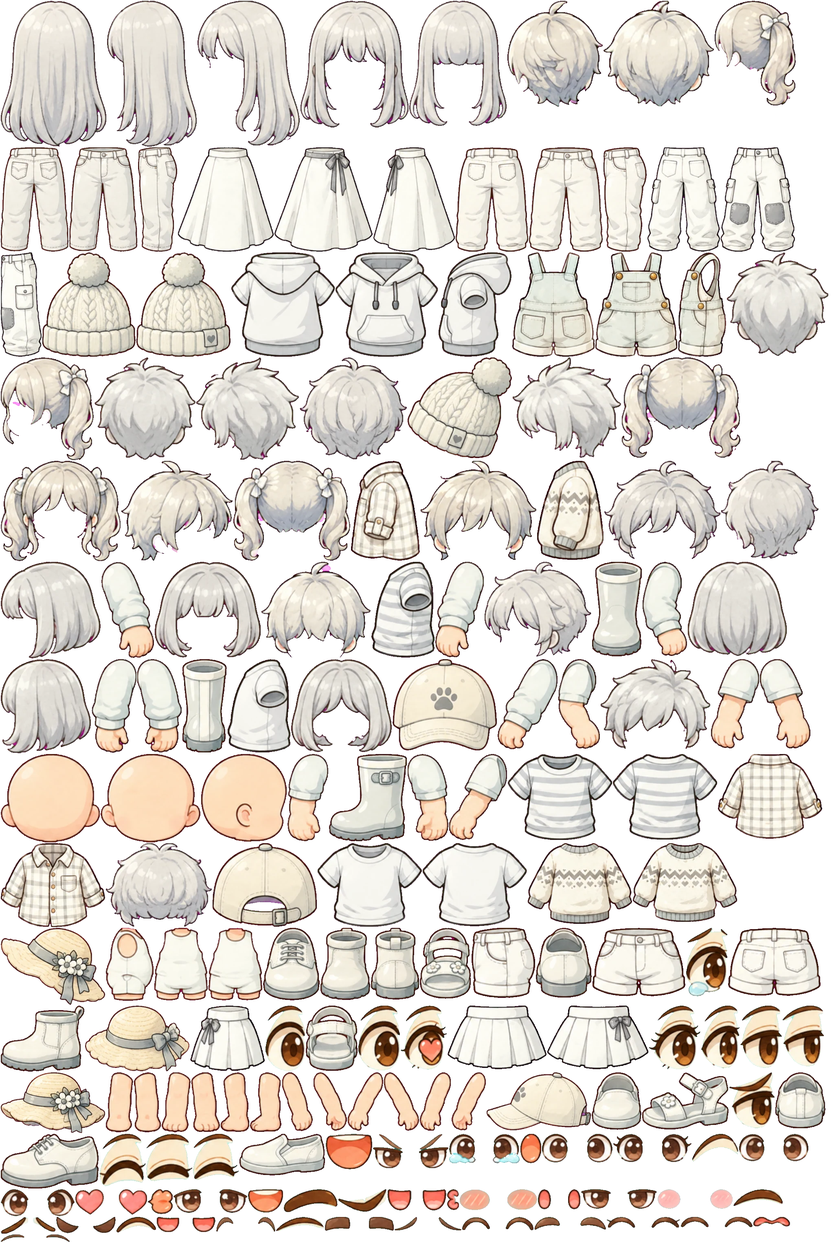
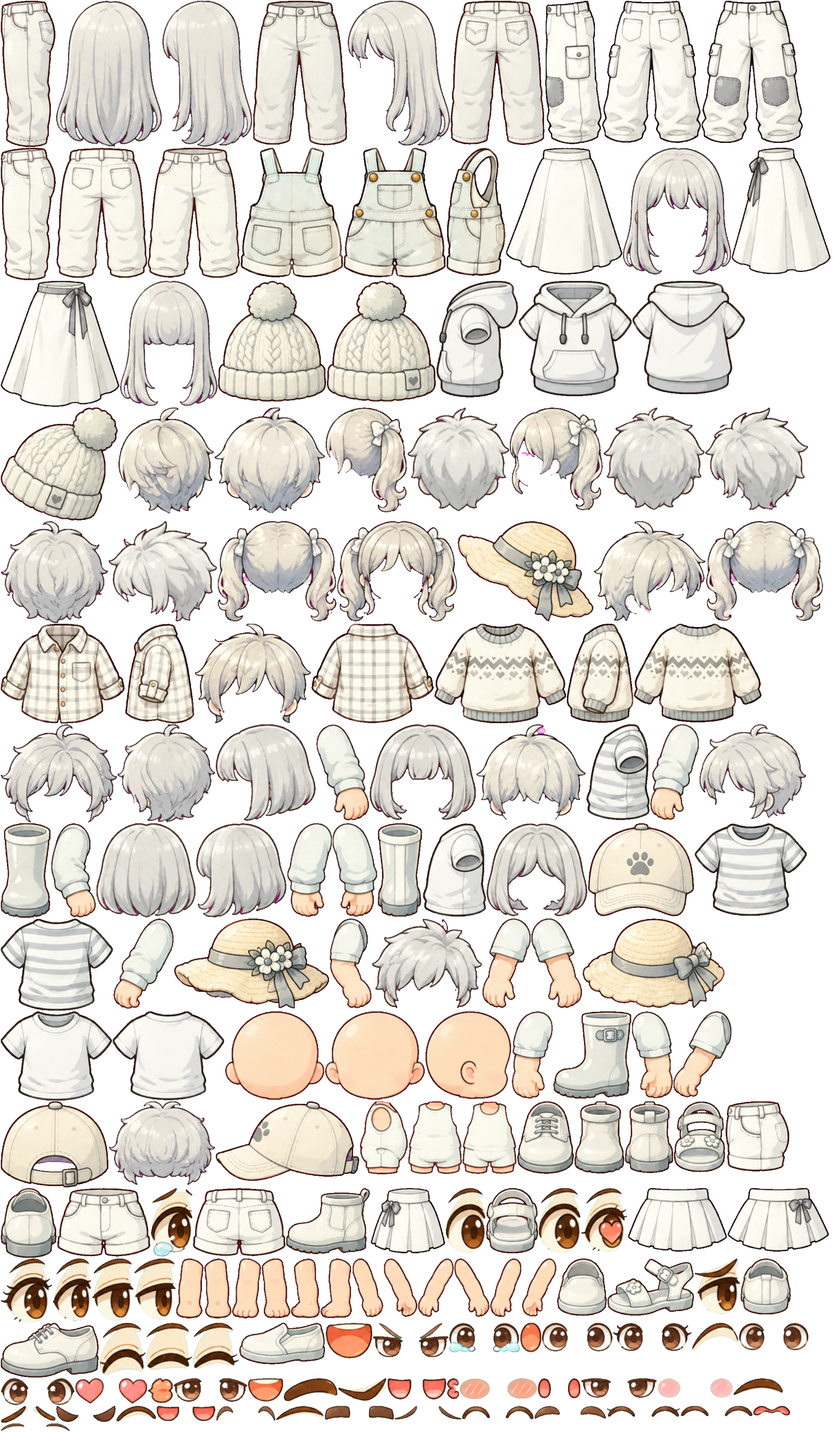
晴耕谷：人物重新設計——衣服跟身體同比例、手臂在袖子裡、側面零件方向修正
- 衣服圖不再各自縮小，跟素體用同一個比例對齊脖子與腰
- 手臂畫在衣服後面，舉手或拿工具時才到前面
- 側面的頭髮、衣服、鞋、帽子、配件左右翻轉成面向右
- 帽子各自的高度、居民改用美術眼鏡與圍巾
- 修正背面看不到背包的問題

Claude-Session: https://claude.ai/code/session_01S45UbmkRmwDS2Z4tiYZZKx

diff --git a/public/games/farm/render/doll.js b/public/games/farm/render/doll.js
@@ -69,10 +69,16 @@ export function drawDoll(g, look, parts, x, y, U, dir = 'down', action = 'idle',
     if (maxH && h > maxH) h = maxH;                                   // 長褲：不要蓋過鞋子（只壓高度）
     if (fitBox && h > fitBox) { w *= fitBox / h; h = fitBox; }        // 很高的頭飾：整個等比例縮小
     const flip = side && fit.flipSide; if (flip) { g.save(); g.scale(-1, 1); } // 有些零件的側面圖畫反了（面向左），翻過來
-    g.drawImage(color ? tintSprite(s.img, s.x, s.y, s.w, s.h, color) : s.img, ...(color ? [] : [s.x, s.y, s.w, s.h]), -w / 2, baseY + (side && fit.dys != null ? fit.dys : fit.dy) * U, w, h);
+    dS(s, color, -w / 2, baseY + (side && fit.dys != null ? fit.dys : fit.dy) * U, w, h);
     if (flip) g.restore(); return true;
   };
   const topArt = !!sprite(`top/${top.id}/${view}`);
+  // 美術的側面零件（頭髮、衣服、鞋、帽子、配件）大多畫成面向左，素體是面向右：側面時把這些零件左右翻過來
+  const dI = (src, sx, sy, sw, sh, dx, dy, dw, dh) => {
+    if (!side) { if (sx == null) g.drawImage(src, dx, dy, dw, dh); else g.drawImage(src, sx, sy, sw, sh, dx, dy, dw, dh); return; }
+    g.save(); g.translate(dx + dw / 2, 0); g.scale(-1, 1); if (sx == null) g.drawImage(src, -dw / 2, dy, dw, dh); else g.drawImage(src, sx, sy, sw, sh, -dw / 2, dy, dw, dh); g.restore();
+  };
+  const dS = (s, color, dx, dy, dw, dh) => (color ? dI(tintSprite(s.img, s.x, s.y, s.w, s.h, color), null, null, null, null, dx, dy, dw, dh) : dI(s.img, s.x, s.y, s.w, s.h, dx, dy, dw, dh));
   // ---- 美術素體（頭、臉、身體、手腳）：素材到了就用，沒有就用下面程式畫的 ----
   const BASE = !!sprite('base/head/front') && !look.plain, k0 = U / HEAD_PX, mirror = dir === 'left';
   const put = (name, cx, top, opt = {}) => { // 畫一張零件：以 (cx, top) 為上緣中心；可以指定寬高、旋轉（繞上緣中心）、換色
@@ -102,11 +108,29 @@ export function drawDoll(g, look, parts, x, y, U, dir = 'down', action = 'idle',
     const ss = sprite(`shoes/${look.shoes}/${view}`);
     if (ss) { // 美術鞋子：每隻腳一隻，鞋底貼著腳底；長靴比較高
       const sw = (side ? 0.4 : 0.3) * U, sh2 = Math.min(sw * ss.h / ss.w, (tall ? 0.42 : 0.24) * U), sw2 = sh2 * ss.w / ss.h;
-      g.save(); g.translate(side ? 0 : sx * 0.14 * U, by - 0.02 * U); g.rotate(side ? ang : 0); g.drawImage(paint(ss, skin, sc), -sw2 / 2 + (side ? 0.04 * U : 0), L - sh2 + 0.02 * U, sw2, sh2); g.restore();
+      g.save(); g.translate(side ? 0 : sx * 0.14 * U, by - 0.02 * U); g.rotate(side ? ang : 0); dI(paint(ss, skin, sc), null, null, null, null, -sw2 / 2 + (side ? 0.04 * U : 0), L - sh2 + 0.02 * U, sw2, sh2); g.restore();
       return true;
     }
     g.save(); g.translate(side ? 0 : sx * 0.14 * U, by - 0.02 * U); g.rotate(side ? ang : 0); rr(-0.13 * U, L - (tall ? 0.24 : 0.13) * U, 0.26 * U + (side ? 0.06 * U : 0), (tall ? 0.24 : 0.13) * U, 0.06 * U); fill(look.shoes === 'sandal' ? shade(sc, -0.2) : sc); g.restore();
     return true;
+  };
+  // 美術衣服：跟素體用同一個比例（parts.fit），上衣從脖子下面對齊、褲裙從腰對齊，所以會剛好套在身上
+  const FT = parts.fit || {}, torsoTop = hy + 0.42 * U;
+  const wear = (name, color, k, topY, dx = 0, maxH = 0) => {
+    const s = sprite(`${name}/${view}`); if (!s) return false;
+    let w = s.w * k0 * k, h = s.h * k0 * k; if (maxH && h > maxH) { w *= maxH / h; h = maxH; }
+    dS(s, color, dx - w / 2, topY, w, h); return true;
+  };
+  const topWear = () => { const f = FT.top || { k: 1, y: 0 }; return wear(`top/${top.id}`, look.topColor, f.k, torsoTop + f.y * U, side ? (f.sx || 0) * U : 0); };
+  const bottomWear = () => {
+    if (top.dress) return true; const f = FT.bottom || { k: 1, y: -0.2 }, b = parts.bottom.find((v) => v.id === look.bottom) || {};
+    return wear(`bottom/${look.bottom}`, look.bottomColor, f.k, by + f.y * U, side ? (f.sx || 0) * U : 0, -by - (f.y * U) - 0.06 * U);
+  };
+  const hatWear = () => {
+    if (look.hat === 'none') return true; const f = FT.hat || { k: 1 }, s = sprite(`hat/${look.hat}/${view}`), hp = parts.hat.find((v) => v.id === look.hat) || {}; if (!s) return false;
+    const w = s.w * k0 * f.k, h = s.h * k0 * f.k, dy = hp.dy != null ? hp.dy : (FT.hatY && FT.hatY[look.hat] != null ? FT.hatY[look.hat] : -0.38);
+    const col = look.hat === 'straw' || hp.art ? null : look.hatColor;
+    dS(s, col, -w / 2 + (side ? 0.02 * U : 0), hy + dy * U - h / 2, w, h); return true;
   };
   const bodyArt = () => { const s = sprite(`base/torso/${view}`); if (!s) return false; const h = by + 0.12 * U - (hy + 0.42 * U); put(`base/torso/${view}`, side ? -0.02 * U : 0, hy + 0.42 * U, { w: h * s.w / s.h, h }); return true; };
   const headArt = () => put(`base/head/${view}`, side ? -0.03 * U : 0, hy - 0.52 * U, { h: 1.04 * U, w: 1.04 * U * sprite(`base/head/${view}`).w / sprite(`base/head/${view}`).h });
@@ -122,7 +146,7 @@ export function drawDoll(g, look, parts, x, y, U, dir = 'down', action = 'idle',
   const hairArt = (v) => {
     const s = sprite(`hair/${look.hair}/${v}`); if (!s) return false;
     const w = s.w / HAIR.px * U, h = s.h / HAIR.px * U;
-    g.drawImage(tintSprite(s.img, s.x, s.y, s.w, s.h, look.hairColor), -w / 2 + (side ? (sprite('base/head/front') && !look.plain ? HAIR.sxArt : HAIR.sx) : 0) * U, hy + HAIR.top * U, w, h); return true;
+    dS(s, look.hairColor, -w / 2 + (side ? (sprite('base/head/front') && !look.plain ? HAIR.sxArt : HAIR.sx) : 0) * U, hy + HAIR.top * U, w, h); return true;
   };
   // ---- 各個零件 ----
   const hairBack = () => {
@@ -225,7 +249,7 @@ export function drawDoll(g, look, parts, x, y, U, dir = 'down', action = 'idle',
     if (!sl.behind && back && ['face', 'cheek', 'bow', 'tie', 'necklace', 'badge', 'apron'].includes(a.slot)) return true; // 背面看不到臉上和胸前的東西
     const base = sl.y === 'hy' ? hy : sl.y === 'by' ? by : sh, w = a.w * (side ? sl.sw || 0.7 : 1) * U, h = w * s.h / s.w;
     const cx = (side ? sl.sx || 0 : sl.dx || 0) * U, cy = base + (sl.dy || 0) * U;
-    g.drawImage(s.img, s.x, s.y, s.w, s.h, cx - w / 2, cy - h / 2, w, h); return true;
+    dI(s.img, s.x, s.y, s.w, s.h, cx - w / 2, cy - h / 2, w, h); return true;
   };
   const acc = () => {
     if (accArt('front')) return;
@@ -235,11 +259,13 @@ export function drawDoll(g, look, parts, x, y, U, dir = 'down', action = 'idle',
   // ---- 照圖層順序畫 ----
   if (BASE) { // 美術素體
     accArt('behind'); hairBack();
-    if (side) armArt(false); else if (back) { armArt(true); armArt(false); }
+    const dressed = topArt; // 上衣有美術圖：手臂畫在衣服後面，袖子蓋住手臂、只露出手
+    if (side) armArt(false); else if (back || dressed) { armArt(true); armArt(false); }
     if (side) { legArt(-1, p.legB); legArt(1, p.legA); } else { legArt(-1, p.legA); legArt(1, p.legB); }
-    bodyArt(); bottom(); topL();
-    if (!back) { if (!side) armArt(false); armArt(true); }
-    headArt(); faceArt(); hairFront(); hat(); acc(); if (back) { const a = parts.acc.find((v) => v.id === look.acc); if (a && a.art && (parts.slots[a.slot] || {}).behind) { const s = sprite(`acc/${a.id}/front`); if (s) { const sl = parts.slots[a.slot], w = a.w * U, h = w * s.h / s.w; g.drawImage(s.img, s.x, s.y, s.w, s.h, -w / 2, sh + sl.dy * U - h / 2, w, h); } } }
+    bodyArt(); if (!bottomWear()) bottom(); if (side && dressed) armArt(true); if (!topWear()) topL();
+    if (!back && !dressed) { if (!side) armArt(false); armArt(true); }
+    if (!back && dressed && (p.tool || action === 'happy' || action === 'eat')) armArt(true); // 舉手、拿工具的時候前面那隻手要在衣服前面
+    headArt(); faceArt(); hairFront(); if (!hatWear()) hat(); acc(); if (back) { const a = parts.acc.find((v) => v.id === look.acc); if (a && a.art && (parts.slots[a.slot] || {}).behind) { const s = sprite(`acc/${a.id}/front`); if (s) { const sl = parts.slots[a.slot], w = a.w * U, h = w * s.h / s.w; g.drawImage(s.img, s.x, s.y, s.w, s.h, -w / 2, sh + sl.dy * U - h / 2, w, h); } } }
   } else {
   hairBack();
   if (side) arm(false); else if (back) { arm(true); arm(false); }

diff --git a/docs/farm-game/進度.md b/docs/farm-game/進度.md
@@ -610,3 +610,15 @@ prompt 集階段 7 列的項目裡，**還沒做**的
 - 目前：**海伯**下午到海邊碼頭尾端釣魚、**汐音**上午到森林小溪邊釣魚、**青嵐**早上在森林裡走動（採藥）。玩家在那張地圖遇到就可以跟他說話、送禮（伺服器也照同一套判斷他在哪張地圖）。
 - 找路的地圖格子改成照「最上面那層地面」算，所以碼頭、木橋這種鋪在水上的路走得過去。
 - 測試：伺服器 164 項、雙人瀏覽器驗收 79 項；24 位居民一整天在三張地圖上的位置都沒有站在建築或水裡；截圖確認海伯在碼頭、汐音在溪邊。
+
+## 補充：人物重新設計（2026-11-13）
+
+使用者回饋：人物長得很奇怪、側面頭髮完全相反。找到三個原因並修正：
+
+1. **衣服的比例跟身體不一致**：素材工具會把每張衣服圖各自縮小到同一個上限，所以每件衣服大小不一，套在身上時有的太小、露出底下的白色內衣，有的浮在外面。改成衣服圖不縮小（素材工具的圖集寬度上限改成 4096），畫的時候跟素體用同一個比例，上衣從脖子下面對齊、褲裙從腰對齊（比例和位置在 `data/doll/parts.json` 的 `fit`）。
+2. **手臂畫在衣服外面**：原本手臂蓋在衣服上，看起來像兩根棍子貼在袖子上。改成手臂畫在衣服後面，袖子蓋住手臂、只露出手；舉手、拿工具、吃東西時前面那隻手才移到衣服前面。
+3. **側面的零件方向相反**：素體、手、腳、側臉是面向右，但 AI 畫的側面頭髮、上衣、鞋子、帽子、配件幾乎都面向左。側面時把這些零件一律左右翻過來，頭髮回到後腦勺、眼鏡鏡片在臉前面、背包在背後。
+
+另外：毛線帽、草帽、棒球帽各有自己的高度，不再壓到眼睛；居民的眼鏡和圍巾改用美術圖；修正一個舊的錯誤（背面時背包不會畫出來，是一段程式不小心被註解掉）。
+
+測試：伺服器 164 項、雙人瀏覽器驗收 79 項；6 位居民和 40 種上衣、25 種配件在正面、側面、背面各畫一次檢查。
